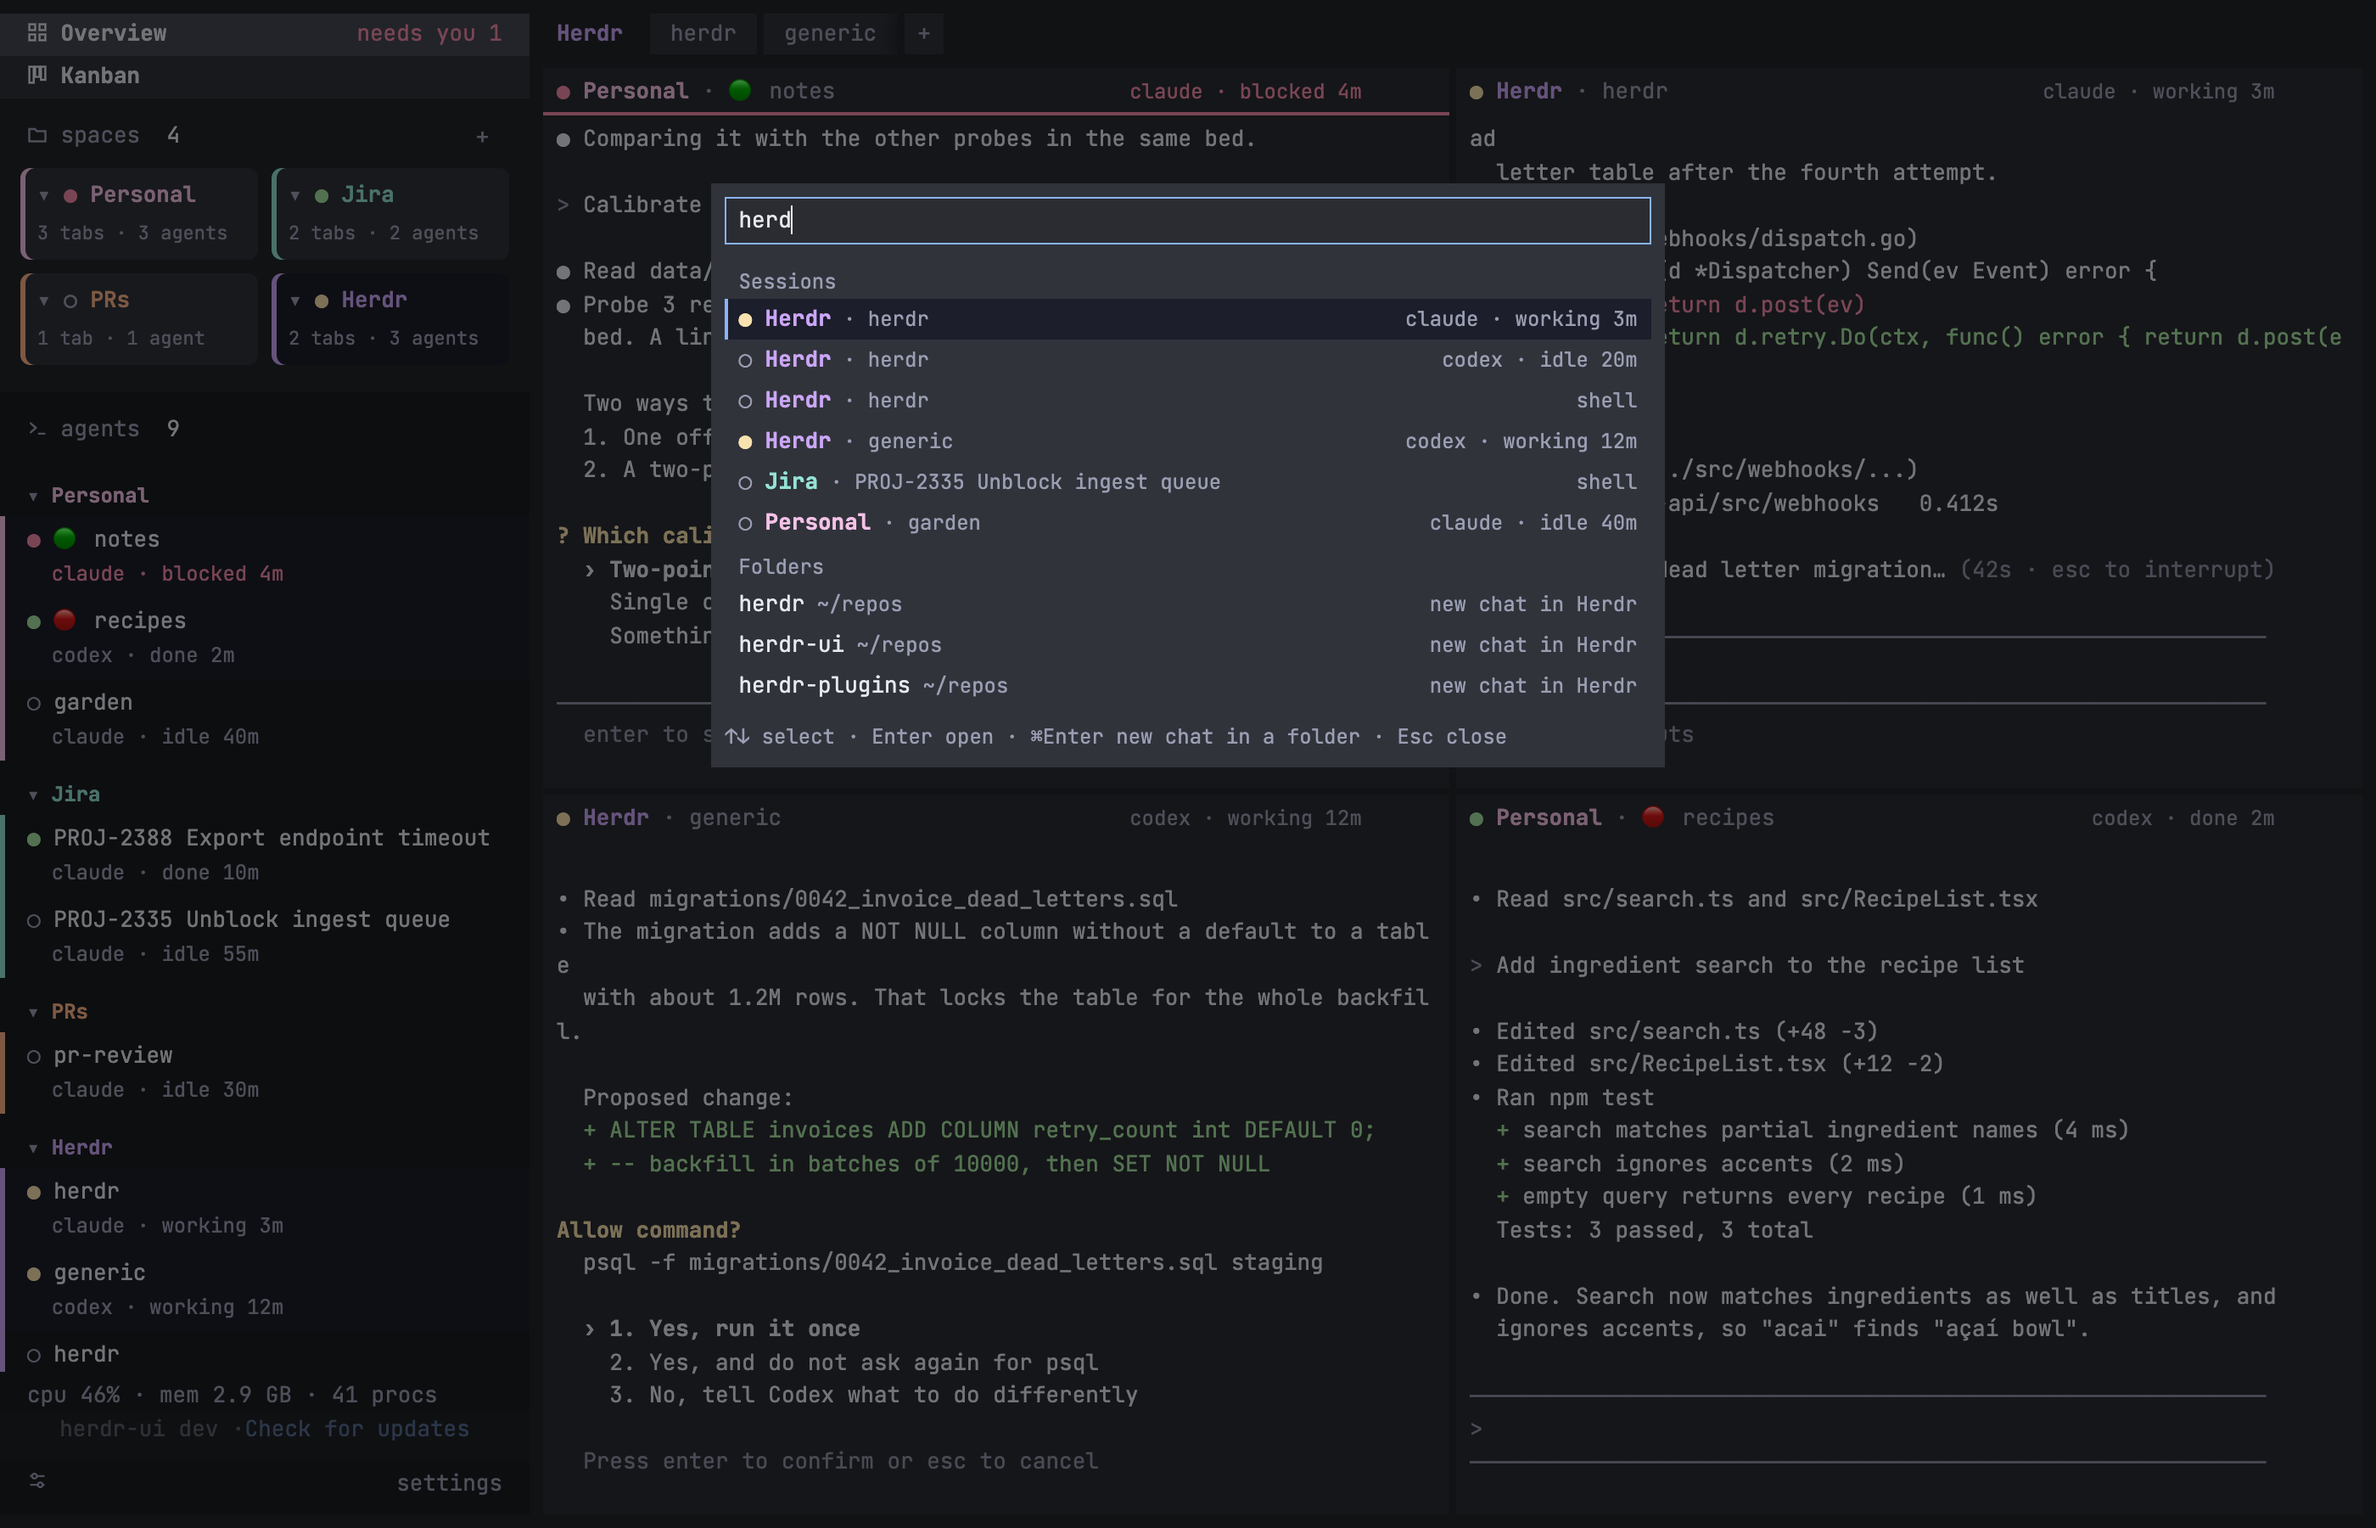
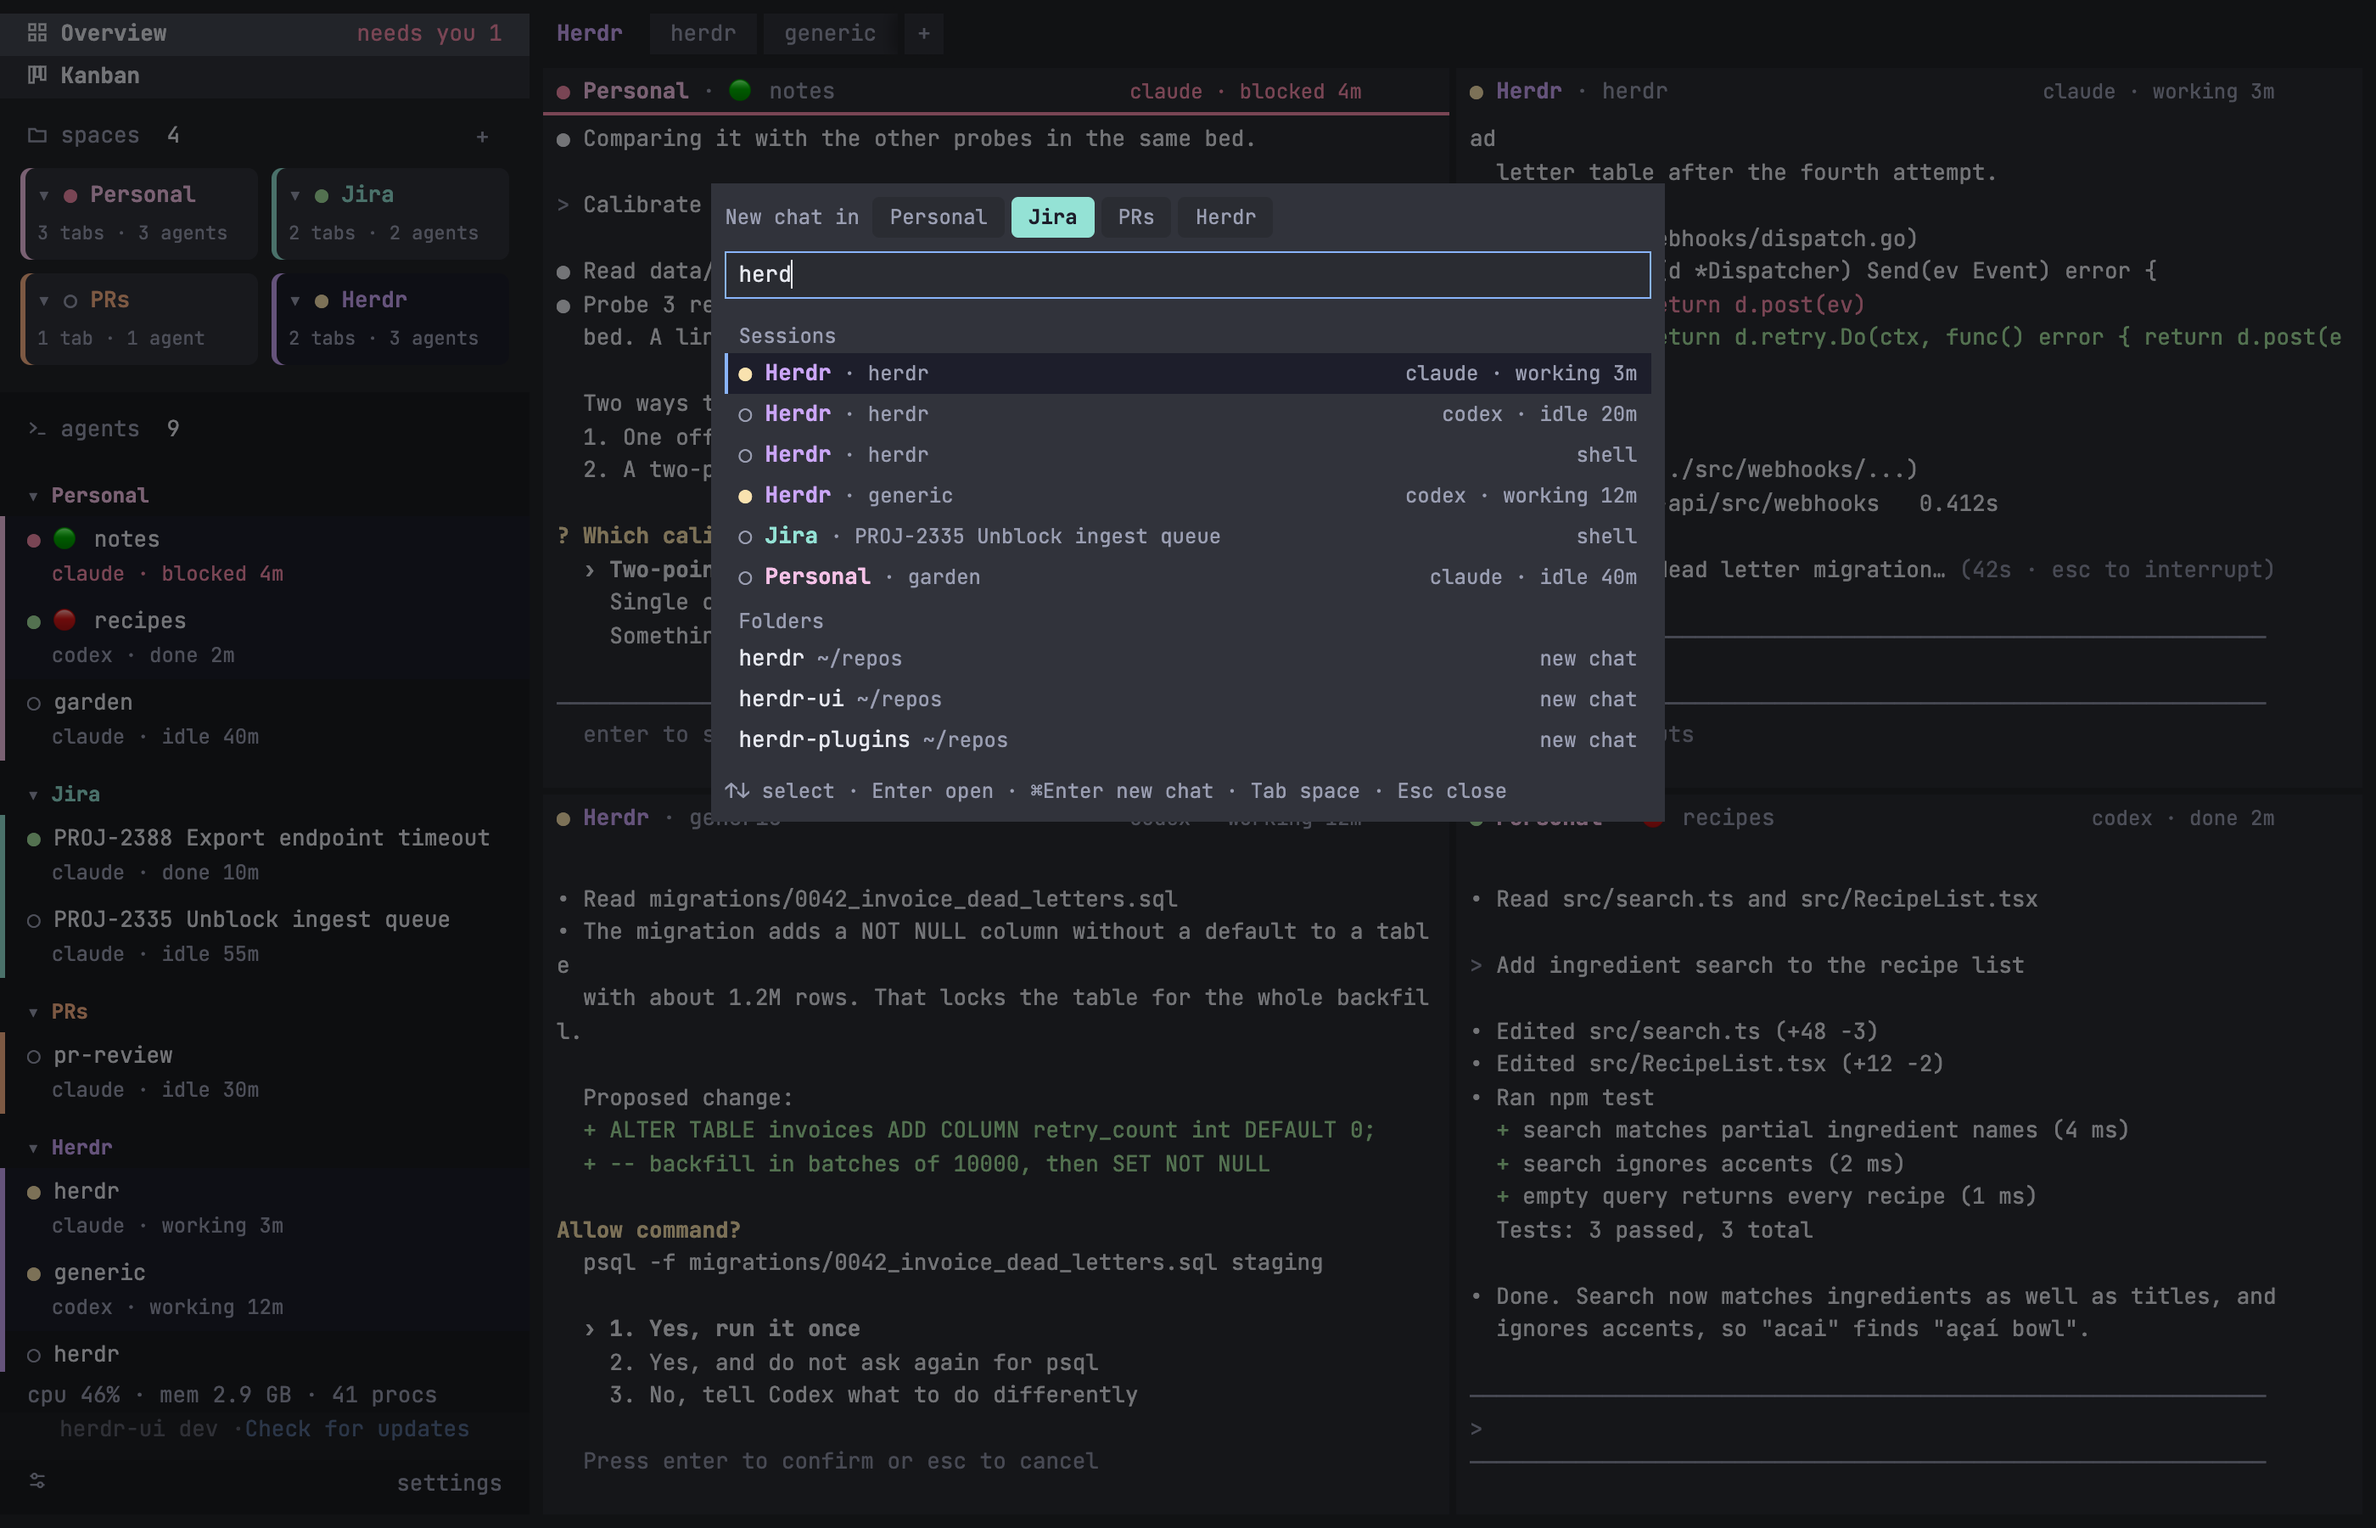
feat(herdr-ui): landing page shows the space picker and the first-run setup

Changed region(s): [[0.2796, 0.1244, 0.7146, 0.56], [0.3729, 0.1244, 0.5282, 0.1556]]

diff --git a/herdr-ui/index.html b/herdr-ui/index.html
@@ -237,9 +237,9 @@ footer a:hover { color:var(--fg); }
         </div>
         <div class="points">
           <div style="--c:var(--pink)"><b>Jump to a session</b>Search by space, tab, agent or folder. Enter opens the terminal, ready to type.</div>
-          <div style="--c:var(--cyan)"><b>Start a new chat</b>Pick a folder and herdr-ui opens a tab there with your agent running. ⌘Enter always starts a fresh one.</div>
+          <div style="--c:var(--cyan)"><b>Start a new chat, in any space</b>Pick a folder, and the space at the top (Tab cycles it). herdr-ui opens a tab there with your agent running. ⌘Enter always starts a fresh one.</div>
           <div style="--c:var(--green)"><b>No duplicates</b>If an agent already works in that folder, Enter takes you to it instead.</div>
-          <div style="--c:var(--orange)"><b>Your folders</b>Point it at <code>~/repos</code>, a chats folder, anything. Pick Claude, Codex, Cursor or another agent in Settings.</div>
+          <div style="--c:var(--orange)"><b>Your folders</b>Point it at <code>~/repos</code>, a chats folder, anything. The first launch shows the folders and the agents it found on your Mac; change them later in Settings.</div>
         </div>
       </div>
       <div class="frame"><div class="bar"><i></i><i></i><i></i><span>herdr-ui · ⌘K</span></div><img src="palette.png" width="2800" height="1800" alt="The ⌘K palette over the overview, listing matching sessions and folders for a new chat" loading="lazy"></div>
@@ -284,7 +284,7 @@ footer a:hover { color:var(--fg); }
     <div class="head rv"><h2>Install in <span class="grad">three steps</span></h2></div>
     <div class="steps">
       <div class="card rv"><div class="n">1</div><b>Drag to Applications</b><p>Open the .dmg and drag herdr-ui to Applications. It runs on Apple Silicon and Intel.</p></div>
-      <div class="card rv" style="--i:1"><div class="n">2</div><b>Open it</b><p>Double-click herdr-ui in Applications. The app is signed and notarized by Apple, so it opens like any other app.</p></div>
+      <div class="card rv" style="--i:1"><div class="n">2</div><b>Open it</b><p>Double-click herdr-ui in Applications. The app is signed and notarized by Apple, so it opens like any other app. One setup screen confirms herdr, your folders and your agent.</p></div>
       <div class="card rv" style="--i:2"><div class="n">3</div><b>Allow notifications</b><p>Turn them on in System Settings, so the badge and the alerts work. Settings in the app has a test button.</p></div>
     </div>
   </section>
